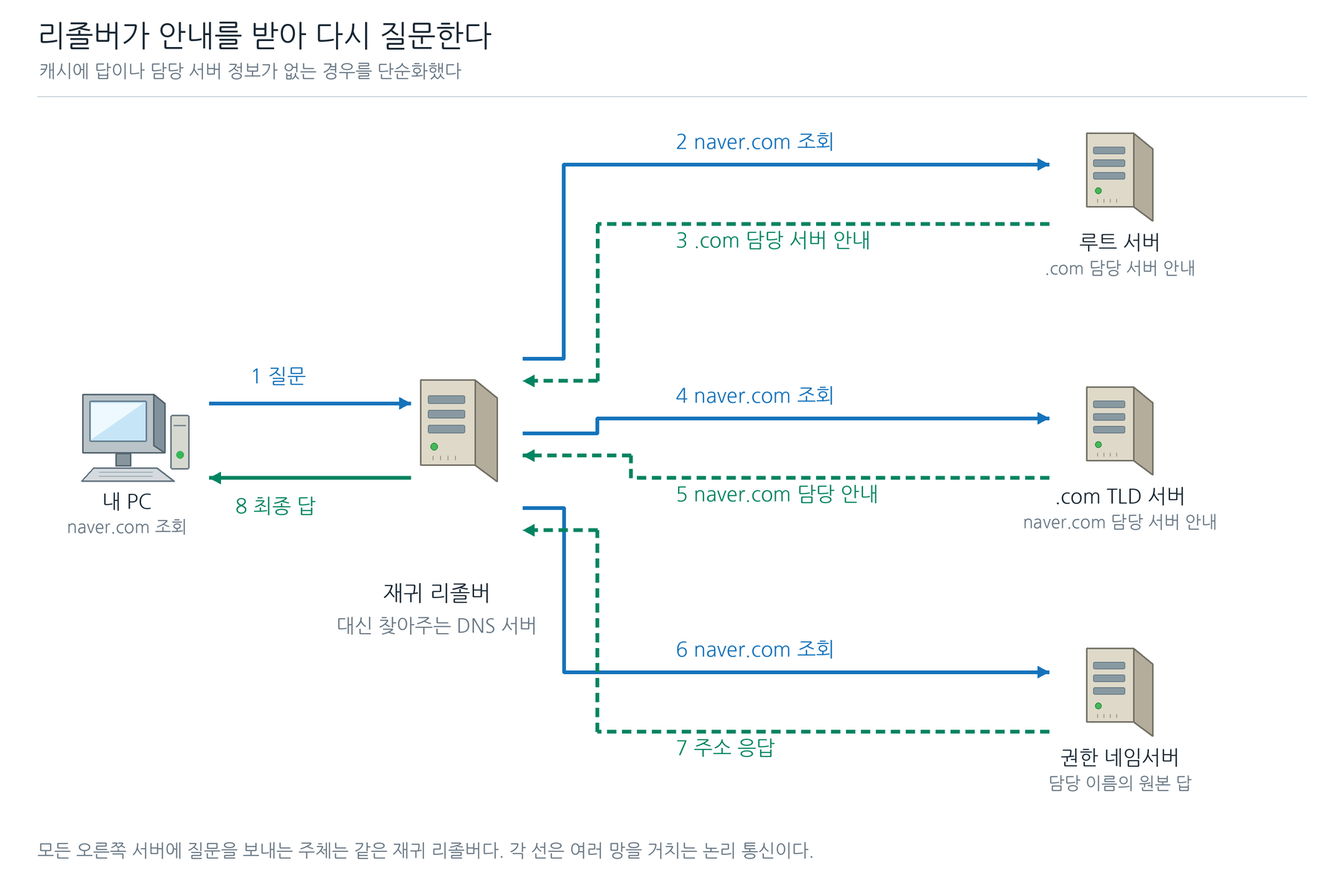
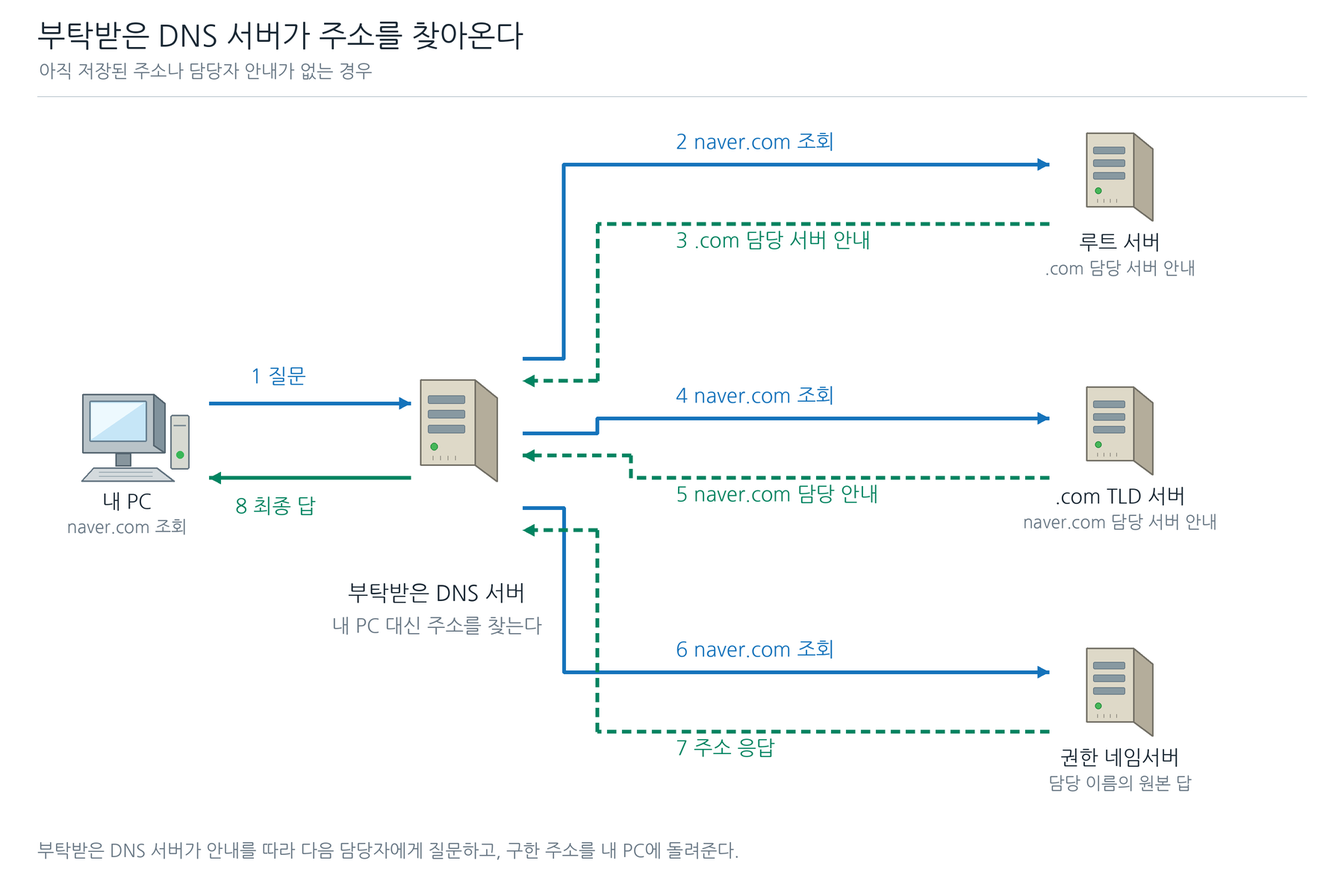
Explain DNS lookup with an analogy and refine lesson authoring guidance

Changed region(s): [[0.0311, 0.0305, 0.3733, 0.0915], [0.0311, 0.9458, 0.5911, 0.9763], [0.2489, 0.6407, 0.4044, 0.7322]]

diff --git a/tools/build_dns_concepts.py b/tools/build_dns_concepts.py
@@ -53,7 +53,7 @@ def create(out, font):
     d.envelope(1200,725,GREEN,1.1)
     d.text(150,842,'질문 패킷의 목적지 = DNS 서버',30,BLUE)
     d.text(990,842,'응답 패킷의 목적지 = 내 PC',30,GREEN)
-    d.footer('구름·지그재그 선은 여러 중간 망과 연결을 생략한 표시다. 웹페이지는 아직 받지 않았다.')
+    d.footer('DNS로 주소를 알아낸 다음, 그 주소로 웹 통신을 시작한다.')
     d.save()
 
     d=canvas('concept_l1_web','주소를 받은 뒤: 웹 서버로 보내는 새 통신','DNS가 알려준 IP를 목적지로 사용한다 · HTTPS의 기본 예')
@@ -94,11 +94,11 @@ def create(out, font):
     d.footer('루트와 .com의 담당 서버는 다음 담당 서버를 안내한다. 웹 서버의 위치와는 다른 관리 구조다.')
     d.save()
 
-    d=canvas('concept_l2_lookup','리졸버가 안내를 받아 다시 질문한다','캐시에 답이나 담당 서버 정보가 없는 경우를 단순화했다',h=1180)
+    d=canvas('concept_l2_lookup','부탁받은 DNS 서버가 주소를 찾아온다','아직 저장된 주소나 담당자 안내가 없는 경우',h=1180)
     d.pc(170,580,'내 PC','naver.com 조회',.95)
     d.server(615,580,s=1.1)
-    d.text(585,780,'재귀 리졸버',29,INK,True)
-    d.text(585,825,'대신 찾아주는 DNS 서버',26,GREY,True)
+    d.text(585,780,'부탁받은 DNS 서버',29,INK,True)
+    d.text(585,825,'내 PC 대신 주소를 찾는다',26,GREY,True)
     for y,name,info in [(240,'루트 서버','.com 담당 서버 안내'),(580,'.com TLD 서버','naver.com 담당 서버 안내'),(930,'권한 네임서버','담당 이름의 원본 답')]:
         d.server(1500,y,name,info,.95)
     arrow(d,[(280,540),(550,540)],'1 질문',335,490)
@@ -107,7 +107,7 @@ def create(out, font):
         source_y=480 if y<500 else 580 if y<700 else 680
         arrow(d,[(700,source_y),(left,source_y),(left,y),(1405,y)],q,905,y-44,BLUE)
         arrow(d,[(1405,y+80),(left+45,y+80),(left+45,source_y+30),(700,source_y+30)],a,905,y+88,GREEN,True)
-    d.footer('모든 오른쪽 서버에 질문을 보내는 주체는 같은 재귀 리졸버다. 각 선은 여러 망을 거치는 논리 통신이다.')
+    d.footer('부탁받은 DNS 서버가 안내를 따라 다음 담당자에게 질문하고, 구한 주소를 내 PC에 돌려준다.')
     d.save()
 
     d=canvas('concept_l3_records','레코드는 이름에 붙여 둔 정보다','질문할 정보의 종류에 따라 답의 의미가 달라진다')

diff --git a/tools/tests/test_lesson_structure.py b/tools/tests/test_lesson_structure.py
@@ -29,6 +29,16 @@ def page(*body):
 
 
 class StructureTests(unittest.TestCase):
+    def test_obvious_diagram_legend_is_reviewed_without_failing(self):
+        p = page(prose("인터넷 구름과 번개, 지그재그 선은 중간 연결을 줄여 그린 기호다."))
+        passed, failed, review = check_structure(p)
+        self.assertEqual(failed, [])
+        self.assertTrue(any("그림 기호 자체" in reason for _, reason in review))
+
+    def test_packet_destination_explanation_is_not_diagram_legend(self):
+        p = page(prose("DNS 응답 패킷의 목적지는 PC이고, 응답 안의 A 값은 후속 웹 통신의 목적지로 사용된다."))
+        self.assertFalse(any("그림 기호 자체" in reason for _, reason in check_structure(p)[2]))
+
     def test_supplement_survives_markdown_and_html(self):
         p = page(prose("이름에 맞는 주소를 찾는다."), supplement(prose("추가 비교 설명이다.")))
         self.assertEqual(validate(p), [])

diff --git a/tools/lesson_structure.py b/tools/lesson_structure.py
@@ -33,6 +33,9 @@ def check_structure(page):
     def inspect_prose(text, path):
         if re.search(r"[①-⑳].*[①-⑳]", text):
             review.append((path, "문장 안에 순서 번호가 나열됨 — numbered_list로 항목을 나눌지 검수"))
+        if (re.search(r"구름|번개|지그재그|봉투\s*모양|아이콘\s*모양", text)
+                and re.search(r"표시|기호|뜻|의미|나타내", text)):
+            review.append((path, "그림 기호 자체의 설명이 있음 — 눈으로 알 수 있는 묘사인지, 기술 이해에 필요한 설명인지 검수"))
         for index, paragraph in enumerate(re.split(r"\n\s*\n", text)):
             normalized = re.sub(r"\s+", " ", paragraph.replace("`", "")).strip()
             # Short transitions often repeat usefully. This is a locator for

diff --git a/.agents/skills/lesson-page/references/terms-and-visuals.md b/.agents/skills/lesson-page/references/terms-and-visuals.md
@@ -4,17 +4,19 @@
 
 본문만 읽지 말고 미리보기·그림 글자·캡션·표·명령·버튼·과제·정답을 실제 표시 순서대로 살펴본다. 새 용어가 나오기 전에 어떤 상황에서 어떤 역할이 필요한지 알려 준다. 정의 안에 다른 미설명 용어가 있으면 먼저 풀어 쓴다.
 
-정의 기본형은 `> **용어(English)** — 쉬운 뜻.`이다. 설명은 용어를 바꿔 말하는 데 그치지 말고 수업에서 하는 일을 말한다. 예를 들어 인트라넷은 조직 안에서 사용하는 내부망이라는 뜻을 소개한 뒤, 이 실습의 `IntranetServer`는 내부 웹 화면을 제공하는 서버에 붙인 이름이라고 연결한다. 인트라넷 서버가 언제나 웹 서버인 것처럼 일반화하지 않는다.
+정확한 명칭을 소개할 때는 `> **용어(English)** — 쉬운 뜻.` 형식을 쓸 수 있다. 정의 블록부터 연속해서 쌓기보다 비유나 실제 사례로 역할을 먼저 이해시킨다. 설명은 용어를 바꿔 말하는 데 그치지 말고 수업에서 하는 일을 말한다. 예를 들어 인트라넷은 조직 안에서 사용하는 내부망이라는 뜻을 소개한 뒤, 이 실습의 `IntranetServer`는 내부 웹 화면을 제공하는 서버에 붙인 이름이라고 연결한다. 인트라넷 서버가 언제나 웹 서버인 것처럼 일반화하지 않는다.
+
+학습 목표가 주소를 찾는 흐름의 이해라면 본문에서는 “대신 찾아주는 DNS 서버”처럼 역할이 드러나는 말을 일관되게 쓸 수 있다. “재귀 리졸버·재귀 질의·반복 질의”의 명칭 구분은 보충으로 옮긴다. 이때 그림 레이블·캡션·확인 질문도 본문 수준에 맞추고, 보충에 둔 용어를 설명 없이 본문에서 요구하지 않는다. 반대로 `.com TLD 서버`처럼 그림과 흐름을 이해하는 데 필요한 역할은 비유와 실제 동작을 연결해 본문에서 설명한다.
 
 한국어·영어·약어가 같은 대상임을 연결한다. `PC0`, `IntranetServer` 같은 실습 이름은 임의 이름임을 밝힌다. IP·도메인·포트 값은 누구의 무엇인지 소개한다. 케이블을 꽂는 물리 포트와 프로그램 통신을 구분하는 포트 번호처럼 같은 말의 다른 뜻을 구분한다.
 
-이전에 배운 말은 지금 필요한 역할만 짧게 상기한다. 매 교시 앞에 용어집을 반복하지 않는다. 학습 목표에 필요 없는 전문명은 더 가르치기보다 덜어낸다.
+이전에 설명한 개념은 다시 정의하지 않고 바로 사용한다. 짧은 복습도 매번 의무적으로 넣지 않는다. 같은 말이 다른 뜻으로 쓰이거나 이번에 새로운 역할을 배우는 경우에는 달라지는 부분만 설명한다. 앞 교시에서 실제로 다뤘는지 원문을 확인하고, 이미 배운 개념과 그 근거 교시를 작업 메모에 남긴다. 학습 목표에 필요 없는 전문명은 더 가르치기보다 덜어낸다.
 
 실습은 **지금 가진 상태 → 할 동작 → 보일 결과 → 다음에 할 일**로 연결한다. 이전 실습의 캐시·설정 때문에 관찰이 달라진다면 정상 관찰 전에 준비·초기화 방법을 알려 준다. 실제 PC, 가상 장비, 설명용 출력 사이의 전환도 밝힌다.
 
 ## 검사 메타데이터
 
-새 교안과 용어를 보강하는 교안은 JSON의 `learning_terms`에 핵심 용어·별칭·실제 소개 문장을 선언한다.
+새 교안과 용어를 보강하는 교안은 JSON의 `learning_terms`에 이번 교시에서 새로 도입하는 핵심 용어·별칭·실제 소개 문장을 선언한다. 앞에서 학습한 것으로 확인한 개념을 신규 도입 항목으로 중복 등록해 재설명을 강제하지 않는다. 하네스가 선행 학습을 자동으로 증명하는 것은 아니므로, 이미 배운 개념의 근거와 새 용어 목록의 완전성은 읽기 검수로 확인한다. 설명하지 않은 용어를 검사 회피 목적으로 선행 학습으로 분류하지 않는다.
 
 ```json
 {
@@ -38,13 +40,15 @@
 
 핵심 동작은 분야의 실제 대상과 구조가 보이는 그림으로 설명한다. 순서·분기는 흐름도, 시간 변화는 시간축, 공간·연결은 구성도, 원인에 따른 결과는 전후 비교를 쓴다. 문장을 상자에 옮긴 요약도나 장식 그림으로 수를 채우지 않는다.
 
+그림의 구름·번개·봉투 모양처럼 눈으로 알 수 있는 표현을 본문에서 일일이 해설하지 않는다. 그림을 읽는 방향을 모든 요소에 반복해서 지시하지 않는다. 설명은 화면만으로 알기 어려운 관계와 이유에 쓴다. 예를 들어 DNS 응답 패킷의 목적지와 응답 속 A 값의 역할 차이는 기술 설명이므로 남긴다. 실제 조작에 필요한 화면·버튼 위치와 오해하기 쉬운 기술 범례는 필요한 만큼 제공한다.
+
 그림은 관련 개념 가까이에 둔다. **그림을 읽는 순서 → 왜 그렇게 움직이는지 → 설명할 수 있어야 하는 관계 또는 실습에서 확인할 값**을 인접 해설로 연결한다. 화살표에는 누가 누구에게 무엇을 보내는지 표시한다. 설명용 그림·설정 안내도·실제 화면 캡처를 캡션에서 구분한다.
 
 정확한 글자·값·연결이 필요한 그림은 수정 가능한 SVG와 표시용 PNG를 함께 남긴다. 한글 글꼴, 본문 폭의 가독성, 글자·화살표 겹침, 잘림을 실제 렌더로 확인한다. 색에만 의존하지 않고 이름·단계 번호·선 모양을 함께 쓴다.
 
 ## 그림의 목적과 제작 순서
 
-개념도는 원리를 보여 주고 실측 화면은 사용한 프로그램의 실제 상태를 보여 준다. 개념 교시의 모든 그림을 Packet Tracer처럼 만들거나 실제 장비 포트·VLAN을 의무적으로 채우지 않는다. 인터넷 구름, 중간 연결을 생략하는 번개·지그재그 선, PC·라우터·서버 아이콘을 쓸 수 있다. 생략한 경로와 논리 화살표의 뜻을 본문에서 설명한다.
+개념도는 원리를 보여 주고 실측 화면은 사용한 프로그램의 실제 상태를 보여 준다. 개념 교시의 모든 그림을 Packet Tracer처럼 만들거나 실제 장비 포트·VLAN을 의무적으로 채우지 않는다. 인터넷 구름, 중간 연결을 생략하는 번개·지그재그 선, PC·라우터·서버 아이콘을 쓸 수 있다. 실제 통신과 관리 계층을 혼동할 수 있는 경우처럼 기술 이해에 필요한 차이만 인접 본문에서 설명한다.
 
 사용자가 개념 이미지 → 전체 교안 → 실습 실측 화면 순서를 지정하면 그 순서대로 작업한다. 참고 이미지는 검색 후 원문과 이용 조건을 확인한다. 필요한 정확한 레이블·방향·값은 수정 가능한 벡터로 작성하고, 실제 프로그램 캡처와 구분한다. 웹에서 가져온 다른 사람의 화면을 이번 실습의 측정 화면이라고 표시하지 않는다.
 

diff --git a/tools/judge_checklist.md b/tools/judge_checklist.md
@@ -14,13 +14,17 @@
    능력 나열("~를 배운다")로 시작하는 섹션이 있으면 지적하라.
 2. **난이도 계단** — 새 개념이 일반형, 최소 예제, 필요한 적용 순서로 도입되는가?
    정의만 주고 실전 예제로 점프하는 곳, 한 코드 블록에 새 개념이 2개 이상 들어간 곳을 지적하라.
+   낯선 동작을 비유나 구체적 사례로 먼저 이해시킨 뒤 실제 역할과 필요한 명칭을 연결하는가? 전문 명칭을 여러 개 정의한 뒤에야 흐름을 설명하면 지적하라.
+   비유에서 질문 주체·응답 정보·다음 행동이 실제 동작과 일치하는가? 비유의 당연한 요소를 늘어놓거나 기술적 관계를 바꾸면 지적하라.
+   명칭 구분 자체가 학습 목표가 아닌 전문 용어는 보충으로 옮길 수 있다. 이때 본문·그림·필수 질문이 그 보충에 의존하지 않는지 확인하라. 필수 역할의 설명 누락을 쉬운 설명으로 오인하지 마라.
 3. **선행 지식** — 이 교시까지 배운 것만으로 모든 과제가 풀리는가?
    설명 없이 처음 등장하는 문법·도구·용어를 지적하라 (처음 보는 사람의 눈으로 읽어라).
    본문·그림 레이블·캡션·표·명령·버튼·과제·정답을 실제 읽는 순서대로 대조하라. 뜻이 뒤에 나오는 용어,
    정의 속 또 다른 미설명 용어, 한국어·영어·약어가 같은 대상임을 알 수 없는 곳을 지적하라.
    실습 장비명은 역할과 임의 이름임을 밝히고, 물리 포트/TCP 포트처럼 겹치는 뜻을 구분했는가?
    learning_terms에 빠진 새 용어도 찾아라. 자동 PASS는 목록의 완전성이나 뜻의 쉬움을 증명하지 않는다.
-   이미 배운 개념은 현재 필요한 역할만 상기하는가? 매 페이지에 용어집을 반복해 흐름을 막지 않는가?
+   앞 교시에서 이미 설명한 개념을 다시 정의하거나 매번 짧게 복습해 흐름을 막지 않는가? 확인된 선행 개념은 설명 없이 바로 사용해도 된다.
+   새 개념·다른 의미·추가 역할만 설명하는지 확인하고, 선행 학습으로 분류한 근거 교시도 대조하라. 입력·설정값·수행 절차의 제공과 개념 재설명을 구분하라.
    현재 상태 → 동작 → 관찰 결과 → 다음 단계가 이어지는가? 캐시 등 이전 실습 상태가 다음 관찰을 건너뛰게 하면
    관찰 시작 전에 준비·초기화 방법을 알려주는가? 실제 PC/가상 장비/설명용 출력의 전환을 밝혔는가?
 4. **교시 역할과 리듬** — 개념 교시는 필요·역할·원리·예시를 충분히 설명하는가? 조작 과제나 특정 실습 예고가 설명을 지배하면 지적하라. 개념 교시에 코딩 과제 개수를 채우라고 요구하지 마라.
@@ -32,7 +36,8 @@
    코드만 있고 설명이 없는 정답을 지적하라.
 8. **속임수 없음** — 본문이 약속한 것(출력·동작·소요 시간)과 코드가 실제로 다를 소지가 있는 곳,
    "예시"라고 밝히지 않은 재현 불가 출력을 지적하라.
-9. **시각 설명** — 핵심 동작을 이해할 곳에 흐름도·시간축·구성도·변경 전후 비교가 충분한가?
+9. **시각 설명** — 성인 독자가 그림만 보고 알 수 있는 구름·번개·모양·색·위치 설명을 불필요하게 늘어놓았는가? 그런 문장은 덜어내되 기술의 조건·인과·오해 방지 설명까지 줄이지 마라.
+    핵심 동작을 이해할 곳에 흐름도·시간축·구성도·변경 전후 비교가 충분한가?
    장식 그림이나 표만으로 수를 채우지 않았는지, 그림 가까이에 읽는 순서와 원인·결과 해설이 있는지 확인하라.
    화살표의 주체·방향·값이 본문·실습과 일치하는가? 논리 흐름과 물리 연결, 개념도와 실제 화면을 구분했는가? 실측이라고 표시한 이미지는 해당 환경에서 직접 캡처한 증거가 있는가?
    그림 속 새 용어·예제 값의 정체, 실제 노션 본문 표시, 한글 가독성·잘림·겹침도 확인하라.

diff --git a/docs/validation.md b/docs/validation.md
@@ -59,6 +59,20 @@ PASS 165개는 선언한 용어 154개와 구조 확인 11개다. SKIP 6개는 P
 
 현재 실행 환경에서는 Packet Tracer를 실행하지 않았다. 사용자 요청에 따라 4–5교시 실제 화면 촬영은 PC 사용 가능 시점까지 보류했다. `.pkt` 파일과 실제 캡처를 만들었다고 보고하지 않는다. [촬영 계획](packet-tracer-capture-plan.md)의 장면을 실제 버전에서 재현한 뒤 명령·UI·예상 결과도 함께 확인한다.
 
+## 추가 서술 기준 수정
+
+사용자 후속 요청으로 1교시의 인터넷 구름·번개·지그재그 기호 풀이 문단을 삭제하고 그림 하단 문구도 기술 흐름 중심으로 정리했다. DNS 응답의 목적지와 응답 속 A 값의 역할 설명은 유지했다. 앞에서 배운 개념은 다음 교안부터 반복 정의하지 않는 작성·읽기 검수 기준을 추가했다.
+
+하네스의 구조 REVIEW는 일부 기호 자체를 설명하는 산문을 검토 대상으로 표시한다. 자동 삭제 판정이 아니며 성인 독자에게 불필요한 묘사인지 기술 이해에 필요한 설명인지 읽고 판단한다. 해당 문장 검출과 기술적 주소 관계 설명 보존을 위한 회귀 검사 2개를 추가했다. 테스트 52개 중 51개 통과, 기존 글꼴 자동 검색 검사 1개 건너뜀. 수정한 1교시의 하네스 PASS 24 / FAIL 0 / REVIEW 0, 린터 ERROR 0 / WARN 0을 확인했다.
+
+2교시는 안내소에 주소 찾기를 부탁하는 비유를 먼저 제시하고 실제 질문·응답 흐름으로 연결했다. `.com`이라는 이름 범위와 `.com TLD 서버`의 역할을 구분해 본문에 설명했다. 재귀 리졸버·재귀 질의·반복 질의, 존·위임의 명칭 설명은 관련 기본 동작 뒤의 보충으로 옮겼다. 본문·확인 질문·조회 그림은 역할이 보이는 표현으로 맞췄다. 스킬과 읽기 검수표에도 비유·사례를 통한 이해를 전문 명칭 나열보다 앞세우는 기준을 추가했다.
+
+- 2교시 하네스 PASS 16 / FAIL 0 / REVIEW 0, 린터 ERROR 0 / WARN 0. 선택 보충의 용어도 검사 목록에 유지했고 보충을 닫은 본문의 의존 검사를 통과했다.
+- 6교시 전체 하네스 PASS 166 / FAIL 0 / SKIP 6 / REVIEW 1, 린터 ERROR 0 / WARN 1. 선언 용어는 TLD 서버를 추가해 총 155개다. 기존 REVIEW·SKIP·WARN의 의미는 위 기록과 같다.
+- 새로 바뀐 조회 그림의 PNG를 열어 한글·레이블·화살표의 배치와 방향을 확인했다. 그림 15개와 용어·목차·정답을 유지한 읽기용 HTML도 갱신했다.
+- 읽기 검수에서 비유의 질문 주체와 실제 서버의 역할, 다음 담당자 안내와 최종 IP 응답의 차이, 닫힌 보충 없이 필수 질문에 답할 수 있는지를 대조했다. 기술 역할은 [Cloudflare의 DNS 서버 역할 설명](https://www.cloudflare.com/learning/dns/dns-server-types/)과 확인했다. 실제 naver.com 네임서버 이름이나 현재 IP를 측정한 예시는 아니다.
+- Notion의 1교시 기호 풀이 문단 삭제와 2교시 본문 수정은 대상 문단만 부분 교체하고 저장 내용을 대조했다. **새 PNG 2개의 Notion 교체는 미완료**다. 이미지 부분 교체가 일치 대상을 찾지 못했고, 전체 페이지 재저장은 자동 승인 검토가 관련 없는 내용 덮어쓰기 위험으로 거부했다. 2교시에는 기존 그림의 ‘재귀 리졸버’를 본문의 쉬운 이름과 연결하는 임시 문장만 두었다. GitHub·HTML의 수정된 그림이 Notion에도 반영됐다고 보고하지 않는다.
+
 ## 최초 공유본 준비 시 확인한 결과 (수정 전 기록)
 
 로컬 macOS·Python 3.9.6 환경에서 다음을 확인했다. 새 환경에서는 Python 3.10 이상을 권장한다. GitHub 자동 검사 설정은 Ubuntu·Python 3.10/3.12에서 단위 테스트와 예제 검수를 실행한다. 실제 실행 결과는 저장소의 Actions에서 확인한다.

diff --git a/.agents/skills/lesson-page/references/validation-and-publishing.md b/.agents/skills/lesson-page/references/validation-and-publishing.md
@@ -1,5 +1,7 @@
 # 검증과 Notion 반영
 
+읽기 검수에서는 비유·사례를 통한 이해가 전문 명칭 나열보다 앞서는지 확인한다. 보충으로 옮긴 용어를 본문 그림이나 필수 질문에서 여전히 요구하면 먼저 고친다. `.com`과 `.com TLD 서버`처럼 관련된 이름이라도 역할이 새로 추가되면 필요한 설명을 생략하지 않는다. 명칭을 어려워 보인다는 이유만으로 `learning_terms`에서 지워 검사를 피하지 않는다.
+
 아래 도구 경로는 `lesson-authoring-toolkit` 저장소 루트를 기준으로 한다. 실제 스키마 형식과 지원 옵션은 해당 도구의 문서·`--help`를 확인한다. 전체 저장소 없이 스킬만 설치했다면 먼저 함께 사용할 도구 위치를 확인한다.
 
 ## 원본과 검사
@@ -14,11 +16,11 @@
 
 하네스는 보안 격리 도구가 아니다. 자신의 검토한 교육용 코드에 사용하고, 출처를 모르는 코드를 실행하는 검사는 격리된 환경에서 진행한다. 검사 도구가 `input()`에 기본 응답을 보내는 경우 외부 변경이 발생하지 않는 예제인지 먼저 확인한다.
 
-용어 검사 PASS는 선언한 목록과 실제 표시 순서에 관한 결과다. 같은 문단의 문장 순서, 정의의 쉬움, 목록에 빠진 용어는 저지가 확인한다. 뜻을 이해하지 못해도 문자만 맞추면 통과하는 형식 검사가 되지 않게 한다.
+용어 검사 PASS는 선언한 목록과 실제 표시 순서에 관한 결과다. 앞 교시에서 설명한 개념을 다시 정의하지 않았다는 이유만으로 보강을 요구하지 않는다. 이번에 새로 도입하는 용어와 확인된 선행 개념을 구분하고, 선행 학습의 근거는 읽기 검수에서 확인한다. 같은 문단의 문장 순서, 정의의 쉬움, 목록에 빠진 용어는 저지가 확인한다. 뜻을 이해하지 못해도 문자만 맞추면 통과하는 형식 검사가 되지 않게 한다.
 
 `supplement`의 본문·코드·그림도 용어와 출력 검사를 받는다. 하네스는 보충을 제외한 필수 본문을 한 번 더 읽어, 필수 용어의 설명이 보충에만 들어 있으면 FAIL로 처리한다. 보충에서만 쓰는 용어는 그 안에서 소개할 수 있다. 검사에 맞추려고 필수 용어·별칭·그림 글자를 삭제하지 않는다.
 
-설명의 의미상 중복, 갑작스러운 주제 전환, 절 목표의 혼재, 예제와 해설의 분리, 미등록 용어와 어려운 정의는 자동 검사로 판정하지 않는다. 저지의 흐름·위계 검수에서 근거 문장과 수정안을 남긴다. REVIEW 0도 설명 품질의 통과 판정은 아니다.
+설명의 의미상 중복, 갑작스러운 주제 전환, 절 목표의 혼재, 예제와 해설의 분리, 미등록 용어와 어려운 정의는 자동 검사로 판정하지 않는다. 저지의 흐름·위계 검수에서 근거 문장과 수정안을 남긴다. REVIEW 0도 설명 품질의 통과 판정은 아니다. 구조 검사는 구름·번개·지그재그 등의 기호 자체를 풀이한 산문도 REVIEW로 표시한다. 이는 자동 삭제 지시가 아니다. 눈으로 알 수 있는 묘사는 덜어내고, 목적지·상태 변화·실패 이유 같은 기술 설명은 유지하도록 판정한다.
 
 로컬 HTML 미리보기가 필요하면 `python3 tools/render_lesson_preview.py path/to/lesson.md path/to/preview.html`을 사용한다. 생성 완료만으로 렌더 검수를 대신하지 않고 브라우저에서 글·토글·그림을 확인한다. 입력 Markdown의 이미지 경로가 미리보기 위치에서도 열리는지 확인한다.
 

diff --git a/.agents/skills/lesson-page/references/lesson-design.md b/.agents/skills/lesson-page/references/lesson-design.md
@@ -4,11 +4,13 @@
 
 ## 독자와 문체
 
+- 성인 비전공자를 기준으로 한다. 네트워크·코딩 배경지식 부족을 일반적인 독해력 부족으로 취급하지 않는다. 눈으로 알 수 있는 도형·색·위치나 일상 행동을 하나하나 풀이하지 않는다. 필요한 상세 설명은 기술의 역할·조건·원리·실패 원인에 집중한다.
 - 네트워크·코딩 배경지식이 없는 독자를 기준으로 한다. 처음 배우는 문법과 새로운 도메인 상황을 한꺼번에 요구하지 않는다.
 - 서술은 `~이다/~한다`, 함께 해 보는 안내는 `~알아보자/~해 보자`로 쓴다. 소제목은 `DNS 응답 살펴보기`처럼 동작이 보이게 짓는다. 코드 출력은 자연스러운 시스템 메시지나 존댓말을 그대로 쓴다.
 - 순서가 있는 설명은 실제 Markdown 번호 목록을 사용한다. `numbered_list`는 한 항목을 한 줄로 렌더한다. 문장 중간의 동그라미 숫자 나열은 쓰지 않는다.
 - 수업 자료가 읽기 전용인 경우 페이지에 직접 적거나 체크하게 하지 않는다. 기본 템플릿은 일반 불릿을 쓰며 체크박스·콜아웃·페이지 아이콘을 넣지 않는다. 중요도 표시가 필요하면 `✅` 필수, `❗` 실무 빈출만 사용한다.
-- 비유는 개념 하나를 돕는 짧은 설명에 쓴다. 수업 전체를 끌고 가는 확장 비유, 과한 수사, 볼드 남발은 피한다.
+- 낯선 동작은 비유·사례 → 실제 역할과 동작 → 필요한 명칭 순으로 설명한다. 예를 들어 DNS 조회는 “부탁을 받은 서버가 담당 안내소를 찾아 주소를 구한다”는 흐름을 먼저 보여 준다. 전문 명칭을 여러 개 외워야 예제를 읽을 수 있는 순서를 피한다.
+- 비유는 하나의 관계를 설명하는 데 필요한 만큼 쓴다. 같은 동작의 인접 단계에서는 일관된 비유를 이어 써도 된다. 누가 질문하고 누가 답하는지, 어떤 정보가 이동하는지 등 실제 관계를 바꾸지 않는다. 비유의 모든 사물을 일대일로 풀이하거나 수업 전체에 억지로 확장하지 않는다.
 - 실제 규칙과 수업의 약속을 구분한다. 예제 IP, 서비스 응답 필드, 로그 형식, 장비 이름이 모든 환경에서 같다고 오해하게 하지 않는다.
 
 ## 교시의 역할을 먼저 정하기
@@ -53,6 +55,8 @@
 수정 전후의 학습 목표·예제·명령·설정값·과제·정답·그림을 대조한다. 통합한 중복과 옮긴 보충을 설명할 수 있어야 하며, 길이나 문단 수를 맞추려고 필수 내용이나 유용한 예제를 지우지 않는다. 시간표를 남긴다면 실제 활동과 맞추고, 모든 교시에 똑같은 설명·해보기 표를 복제하지 않는다.
 
 ## 과제를 혼자 완주할 수 있게 만들기
+
+자체 완결성은 필요한 입력·파일·장비 상태·설정값·수행 절차·확인 결과를 제공한다는 뜻이다. 앞 교시에서 배운 개념의 정의까지 매번 반복한다는 뜻이 아니다. 확인된 선행 개념은 바로 사용하고, 이번에 처음 나오는 개념만 설명한다.
 
 모든 필수·추가·도전 과제는 다음을 갖춘다.
 
